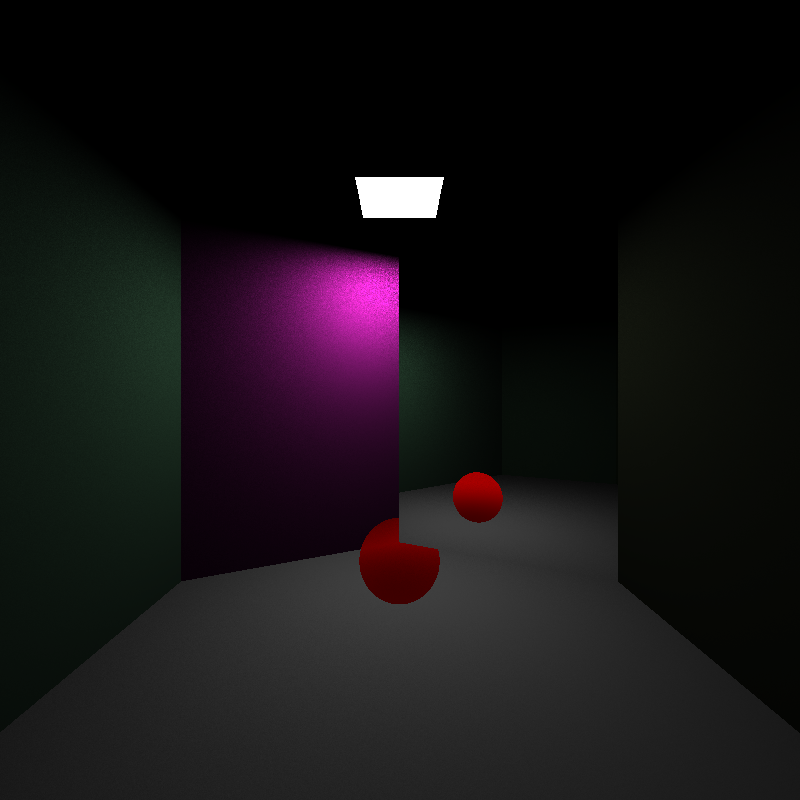
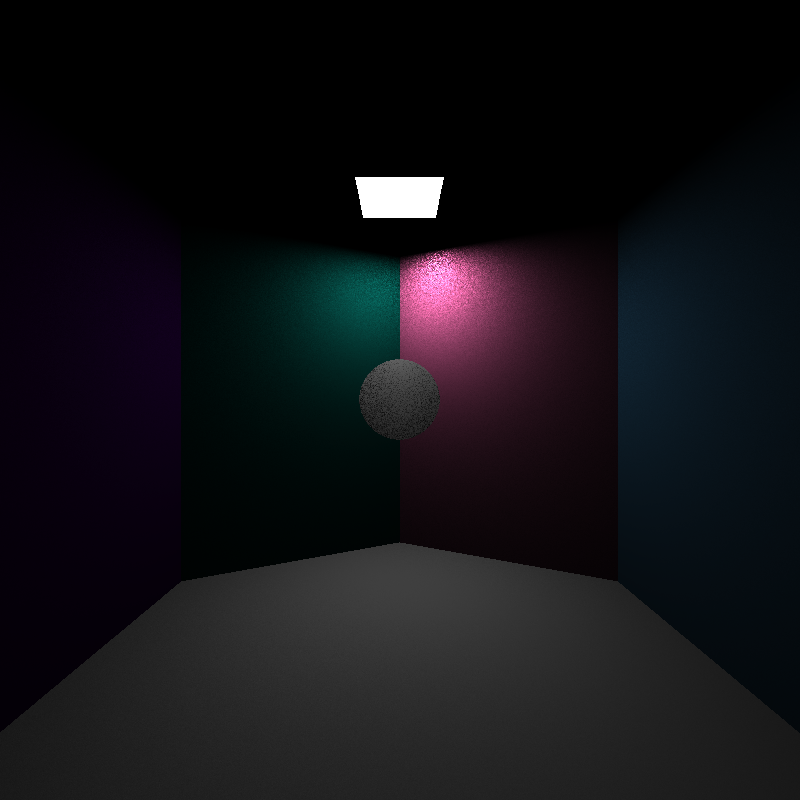
Alternative method for DL sphere is implemented but the implementation needs to be checked and approved

Changed region(s): [[0.0, 0.25, 0.875, 0.75]]

diff --git a/geometry/Sphere.java b/geometry/Sphere.java
@@ -46,9 +46,8 @@ public class Sphere extends Geometry {
         return MollerTrumbore.rayIntersectsSphere(rayOrigin, ray, this, outIntersectionPoint);
     }
     
-    @Override
     public Vector3d getNormal(Vertex pointOfIntersection) {
-        return this.centerPosition.CreateEdge(pointOfIntersection);
+        return pointOfIntersection.CreateEdge(this.centerPosition).norm();
     }
 
     @Override
@@ -62,5 +61,76 @@ public class Sphere extends Geometry {
         return false;
     }
 
+    @Override
+    public ColorRGB calculateDirectLight(Light LightSource, Vertex pointOFIntersection, int nrShadowRays) {
+        int shadowRays = 1;
+        // var q = u * ( v1 - v0) + v * (v2 - v0);
+    
+        ColorRGB L = new ColorRGB(0, 0, 0);
+        ColorRGB Ld = new ColorRGB(0, 0, 0);
+    
+        Vector3d edge1 = LightSource.v2.CreateEdge(LightSource.v1);
+        Vector3d edge2 = LightSource.v3.CreateEdge(LightSource.v1);
+    
+        // float A = glm::length(glm::cross(v1 - v0, v3 - v0));
+        double LightArea = Maths.crossProduct(edge1, edge2).vectorLength();
+    
+        for (int i = 0; i < shadowRays; i++) {
+            // random numbers
+            double u = new Random().nextDouble();
+            double v = new Random().nextDouble();
+    
+            // edges of the lightsource
+            Vector3d e1 = LightSource.v2.CreateEdge(LightSource.v1).Multiply(u);
+            Vector3d e2 = LightSource.v3.CreateEdge(LightSource.v1).Multiply(v);
+            Vector3d summedVector = e1.add(e2);
+            Vertex yi = LightSource.v1.translate(summedVector);
+    
+            // float A = glm::length(glm::cross(v1 - v0, v3 - v0));
+    
+            // Disnans mellan intersection point och ljuskällan
+            // sk är vectorn mellan ljus och puntk
+            // di är distansen mellan di = yi - x
+
+            
+    
+            Vector3d di = pointOFIntersection.CreateEdge(yi).invers();
+            
+            //test
+
+            
+            double abs_di = Math.abs(di.vectorLength());
+    
+            // eventuellt "-" på sk
+            // cos(omegax) = Nx * di / ||di||
+            // cos(omegay) = Ny * di / ||di||
+            // TODO - fixa normal för triangel
+            double cosOmegax = Maths.dotProduct(di.Multiply(1 / abs_di), this.getNormal(pointOFIntersection));
+            // TODO - varför fungerar det bara utan negativt tecken i formel nedan?
+            double cosOmegay = Maths.dotProduct(di.Multiply(1 / abs_di), LightSource.normal);
+
+            //NY DEL FÖR DIRECT LIGHT SFÄR. MEN LJUSET BORDE INTE KUNNA GLIDA ÖVER EKVATORN FÖR SFÄREN
+            //SE ÖVER
+            if(Maths.dotProduct(di, normal)> 0)
+            {
+                L= L.add(this.color.mult((Maths.dotProduct(di, normal)) / (abs_di * abs_di)));
+            }
+            else{
+                L= L.add(this.color.mult(0));
+            }
+
+            
+            
+          
+    
+        }
+    
+        Ld = L.mult(LightArea / (Math.PI *shadowRays));
+        
+        // if (!this->isVisible(shadowRay)) Vk = 0.0f;
+        // else Vk = 1.0f;
+    
+        return Ld.mult(2);
+    }
     
 }

diff --git a/scene/Scene.java b/scene/Scene.java
@@ -114,9 +114,9 @@ public class Scene {
   );
 
   Sphere firstSphere = new Sphere(
-    new Vertex(9,0,-4),
+    new Vertex(9,0,0),
     1.0,
-    1,0,0
+    1,1,1
   );
 
   
@@ -129,7 +129,7 @@ public class Scene {
     
     sceneObjects.add(W4);
     Material mirror = new Material(1.0f, 1, 1, MaterialType.MIRROR);
-    W3.setMaterial(mirror);
+   // W3.setMaterial(mirror);
     // W3.setReflectionCoeff(9.0);
     sceneObjects.add(W3);
 

diff --git a/geometry/Geometry.java b/geometry/Geometry.java
@@ -56,6 +56,7 @@ public class Geometry {
     return false;
   }
 
+  
   public ColorRGB calculateDirectLight(Light LightSource, Vertex pointOFIntersection, int nrShadowRays) {
     int shadowRays = nrShadowRays;
     // var q = u * ( v1 - v0) + v * (v2 - v0);
